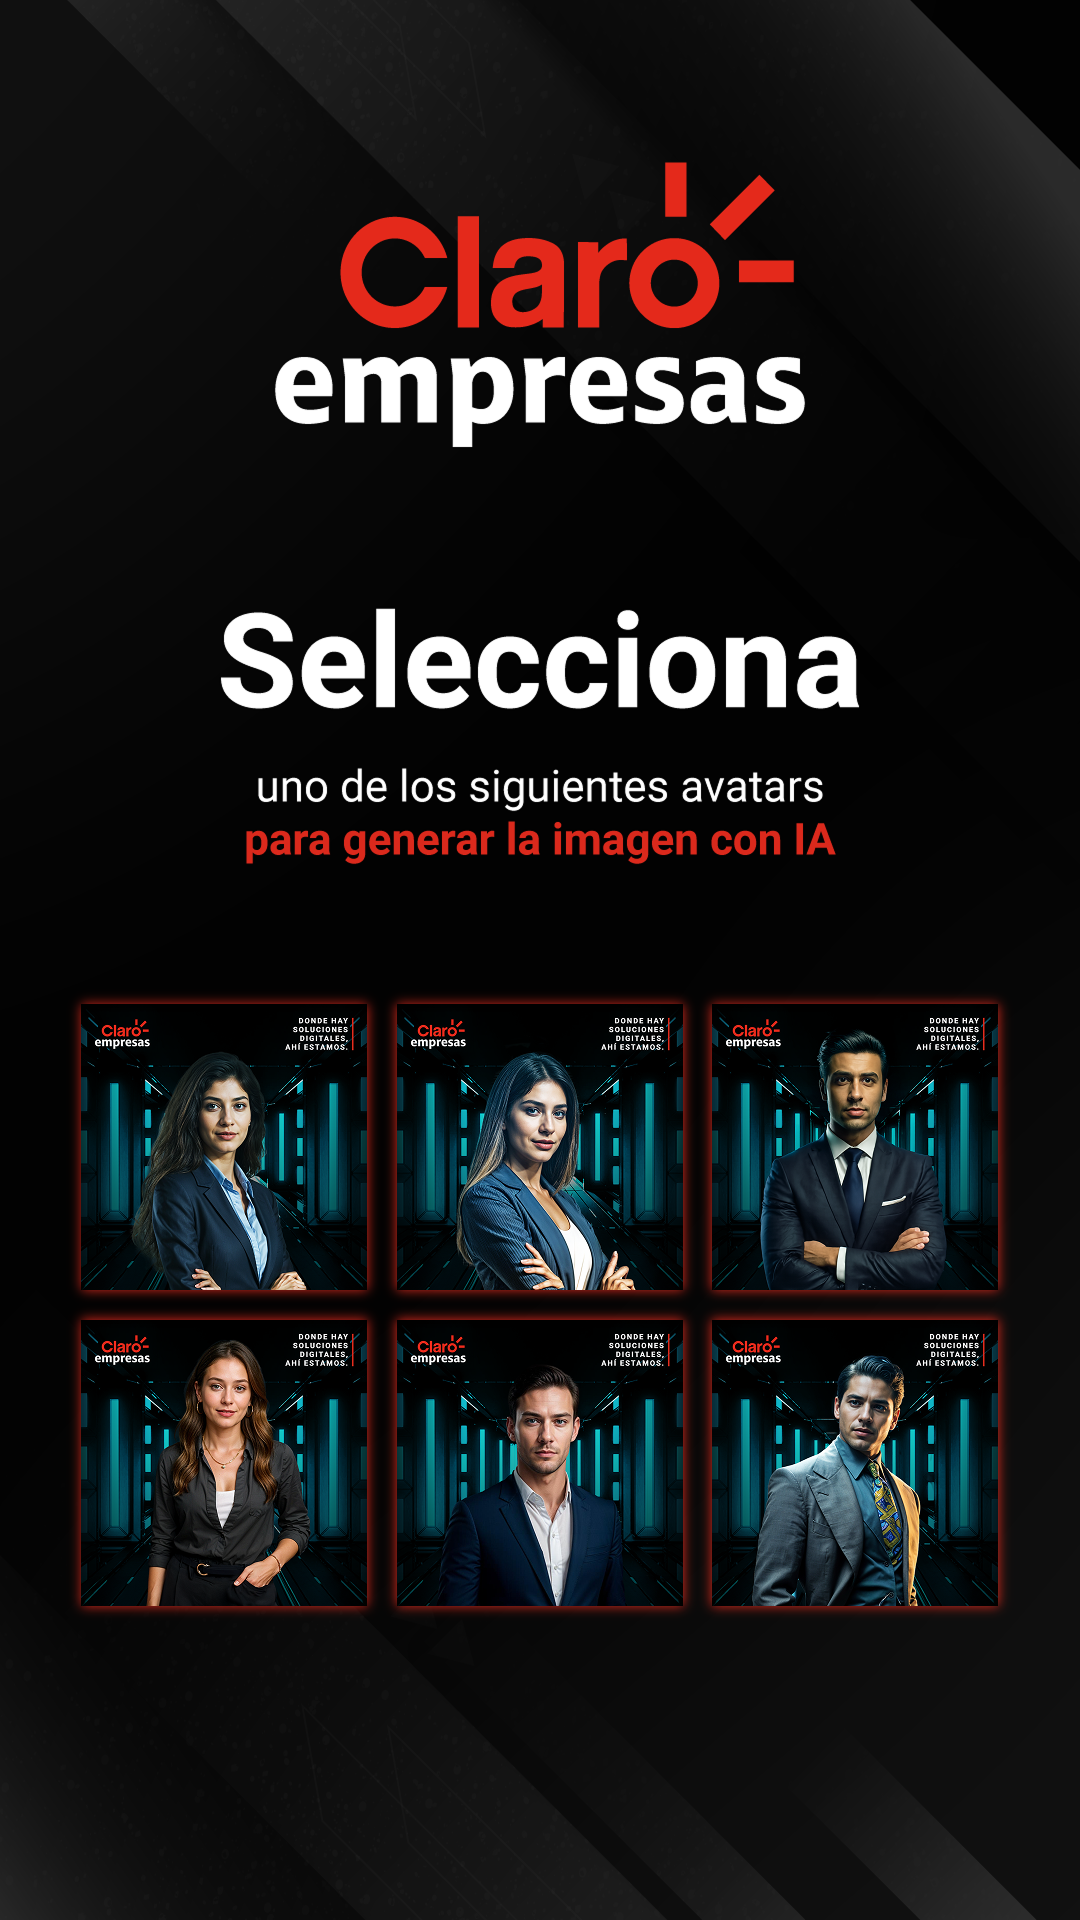
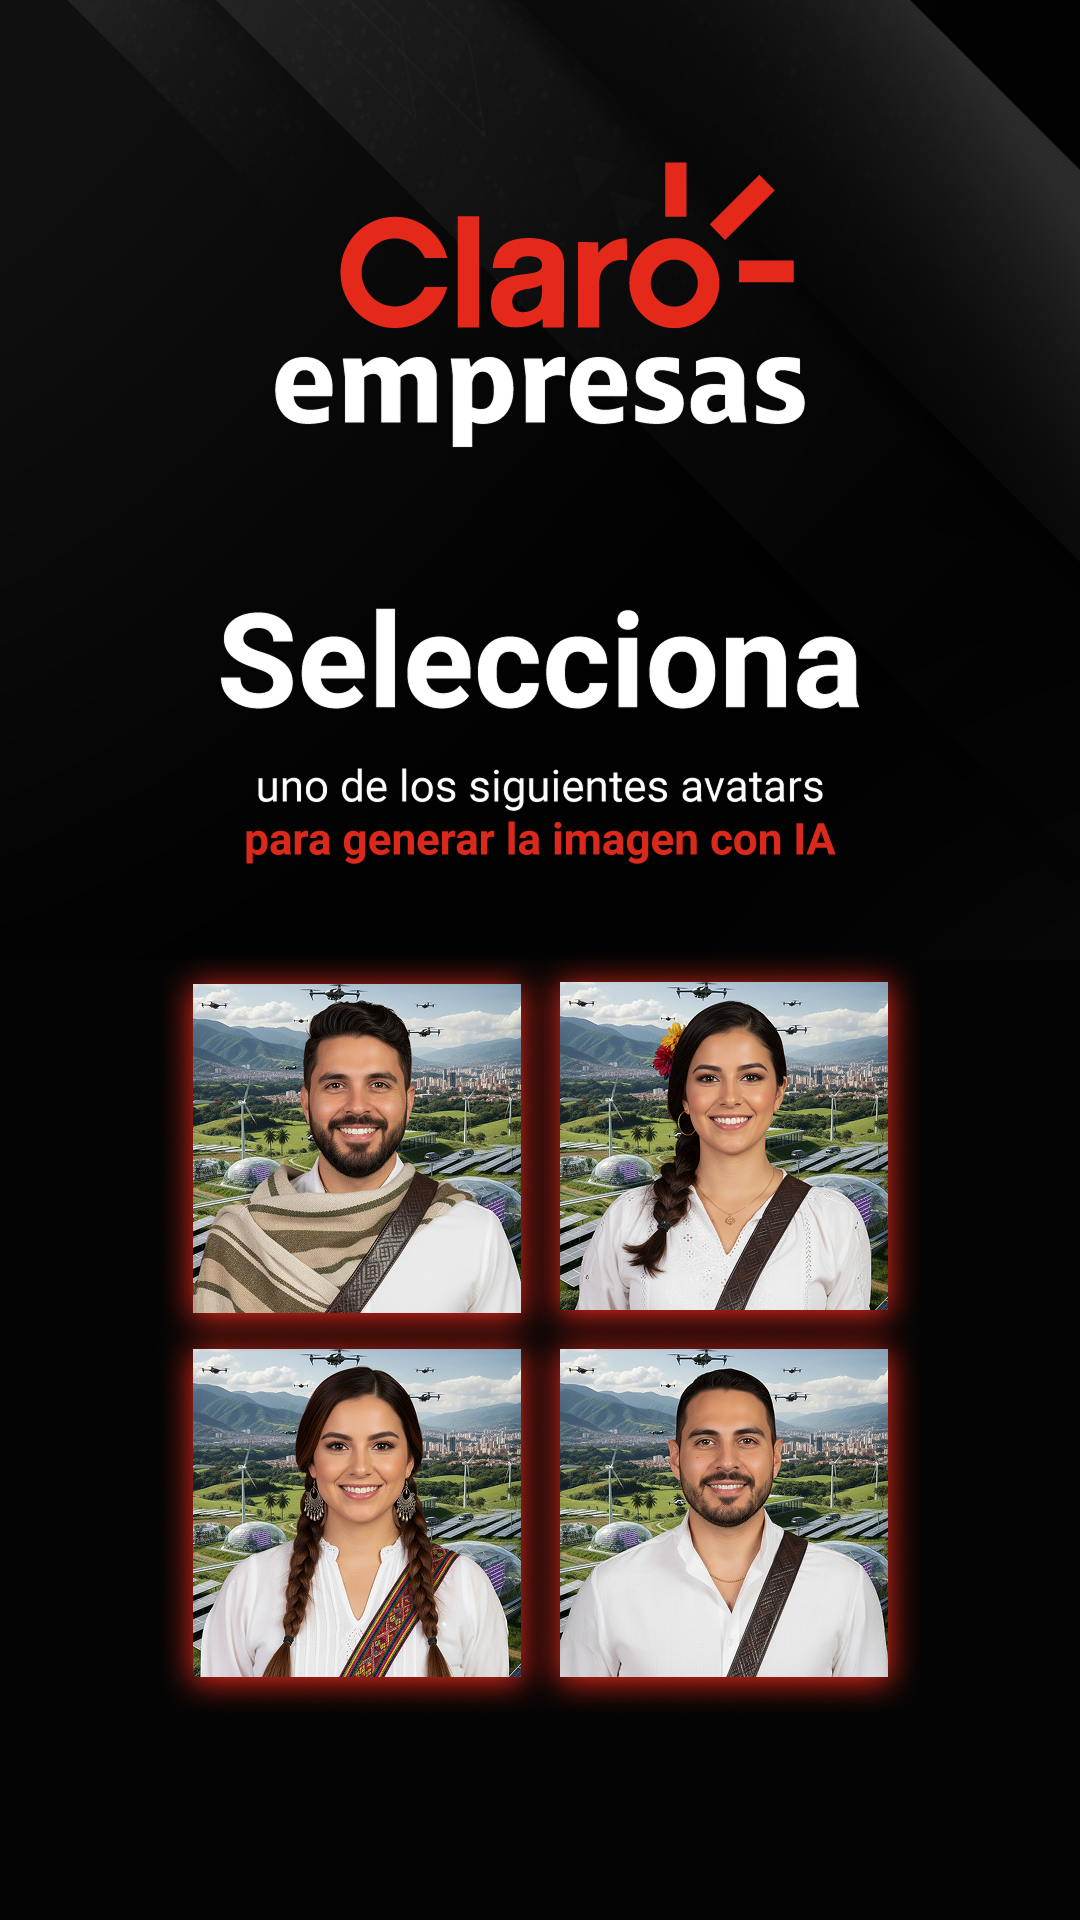
ajustes

diff --git a/components/SelectImage.tsx b/components/SelectImage.tsx
@@ -2,48 +2,25 @@
 
 export default function SelectImage({ setSelectedImage }) {
   return (
-    <div className="relative">
+    <div className="relative w-screen h-screen">
       <img
         src="/seleccion.png"
         alt="selection images"
-        className="w-screen h-screen"
+        className="w-full h-full object-cover"
       />
-      <button
-        className="absolute top-[1030px] left-[100px] w-[250px] h-[250px]"
-        onClick={() => {
-          setSelectedImage(1);
-        }}
-      />
-      <button
-        className="absolute top-[1030px] right-[420px] w-[250px] h-[250px]"
-        onClick={() => {
-          setSelectedImage(2);
-        }}
-      />
-      <button
-        className="absolute top-[1030px] right-[100px] w-[250px] h-[250px]"
-        onClick={() => {
-          setSelectedImage(3);
-        }}
-      />
-      <button
-        className="absolute top-[1340px] left-[100px] w-[250px] h-[250px]"
-        onClick={() => {
-          setSelectedImage(4);
-        }}
-      />
-      <button
-        className="absolute top-[1340px] right-[420px] w-[250px] h-[250px]"
-        onClick={() => {
-          setSelectedImage(5);
-        }}
-      />
-      <button
-        className="absolute top-[1340px] right-[100px] w-[250px] h-[250px]"
-        onClick={() => {
-          setSelectedImage(6);
-        }}
-      />
+
+      {/* Grid de botones desde la mitad hacia abajo */}
+      <div className="absolute top-1/2 left-0 right-0 flex justify-center">
+        <div className="grid grid-cols-2 gap-12">
+          {[1, 2, 3, 4].map((num) => (
+            <button
+              key={num}
+              className="w-[340px] h-[340px] bg-transparent hover:ring-4 ring-blue-500"
+              onClick={() => setSelectedImage(num)}
+            />
+          ))}
+        </div>
+      </div>
     </div>
   );
 }
